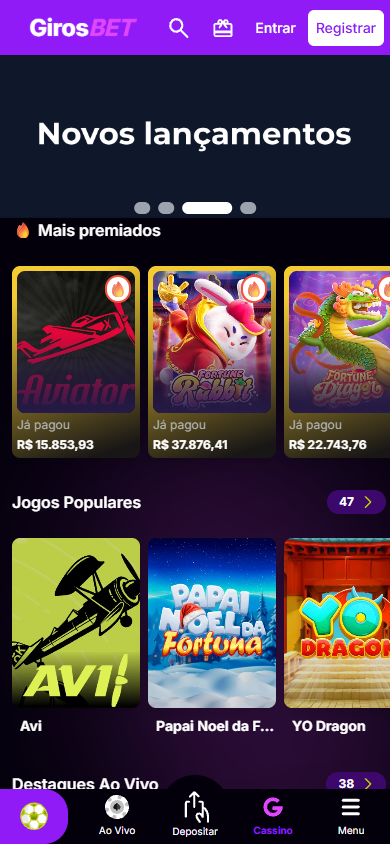
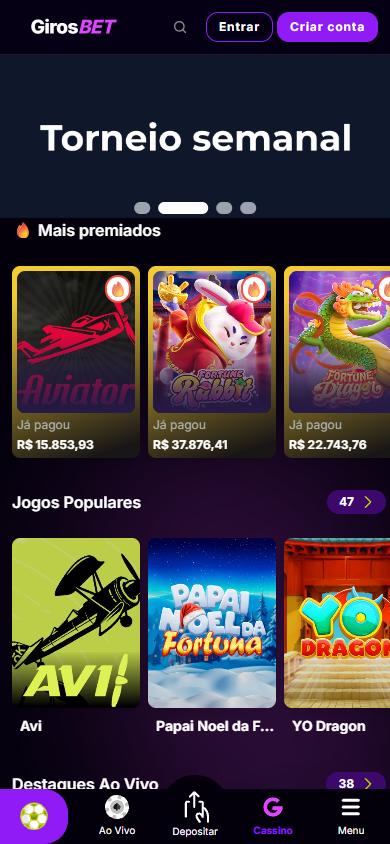
docs(girosbet): record WL-8 (dark header + desktop sidebar) and re-shoot the label
- docs/white-label/01-design.md: WL-8a/8b/8c rows with their BetAki proofs, plus
  "O que WL-8 mudou" (what moved to BrandConfig.layout / semantic tokens / CMS meta.group,
  and what was deliberately left for the next phase).
- docs/design/01-benchmark.md: status column on the L1..L11 backlog (L1, L2 done), the
  "roxo" surfaces decision and the design canvas link.
- docs/girosbet/screenshots: the nine GirosBet shots re-taken against the local CMS with
  the dark header and the sidebar (1440x900 and 390x844, age/cookie dialogs accepted).

Claude-Session: https://claude.ai/code/session_01M8w3jJmPeahYpwBpQFqMKa

diff --git a/docs/white-label/01-design.md b/docs/white-label/01-design.md
@@ -147,8 +147,11 @@ Uma instância Laravel por marca; `BRAND.api.backofficeApiUrl` por ambiente. Sem
 | WL-5 | `brands/_template` + `docs/white-label/02-como-criar-marca.md` (checklist de 1 página) | criar marca `demo` seguindo o doc leva minutos | ✅ feito |
 | WL-6 | `brands/girosbet` com paleta, fontes, logo placeholder, index, config com placeholders | `npm run build:girosbet` verde; screenshots das mesmas telas | ✅ feito |
 | WL-7 | Tirar de `src/` as cores e a fonte da BetAki que ainda estavam fixas: 6 tokens novos (`--color-brand-ink/900/950`, `--color-surface-auth/-skeleton`, `--color-brand-spinner`), `--font-sans` no lugar dos 23 `font-family: Roboto`, e o selo +18 virou `assets.ageBadge` da marca | PNGs da betaki (`/auth/login`, `/auth/register`, `/terms-and-conditions`) idênticos byte a byte antes/depois; `#869502`/`#bcd200`/`#202400`/`#0d0f03` zerados no CSS da girosbet | ✅ feito |
+| WL-8a | Fundação do layout por marca: `BrandConfig.layout { header: 'brand-bar' \| 'dark'; desktopSidebar }`, `ShellService.desktopSidebarCollapsed`, tokens semânticos (`--color-action*`, `--color-surface-header`, `--color-button-secondary*`, `--color-button-outline-text`, `--color-danger`, `--radius-button`) nas três marcas, `<app-button>` pintado com eles | diff do CSS da betaki: 8 custom properties novas, 5 utilitários renomeados com valor idêntico, 0 declarações alteradas | ✅ feito |
+| WL-8b | Header escuro (L1) para `layout.header = 'dark'`: `shell/header-v2/header-dark` com toggle Cassino/Ao vivo, busca inline, botão da sidebar, Entrar (`secondary`) e Criar conta (`primary`); a barra da betaki continua inline e intacta | faixa de 64 px do `/games` da betaki byte a byte igual ao `betaki-home.png` (0 de 92 160 pixels); CSS: 42 utilitários novos, 0 alterados | ✅ feito |
+| WL-8c | Sidebar desktop (L2) para `layout.desktopSidebar`: banner `banner-sidebar-top`, tiles Cupom/Promo, grupos de menu por `meta.group` (`atalhos`/`populares`/`ajuda`), trilho colapsado persistido; seeder do backoffice (`demo-seed`) com os grupos, 5 populares e o banner | CSS da betaki: 20 utilitários novos, 8 removidos (só do markup morto da sidebar antiga), 0 alterados; `desktopSidebar:!1` no bundle da betaki | ✅ feito |
 
-Ordem: WL-0 → WL-1 → WL-2 → WL-3 → WL-4 → WL-5 → WL-6 → WL-7. Cada tarefa é um ou poucos commits na branch `white-label`.
+Ordem: WL-0 → WL-1 → WL-2 → WL-3 → WL-4 → WL-5 → WL-6 → WL-7 → WL-8a → WL-8b/WL-8c. Cada tarefa é um ou poucos commits na branch `white-label`.
 
 ### O que WL-4 mudou além do previsto
 
@@ -192,6 +195,25 @@ Fora de `src/`, o pacote de terceiros `@icore/ngx-atl-pp-templates-shared` (usad
 `src/theme/theme.scss`) traz os templates de CMS `.bki` com `#bcd200`, `#202400` e `#090b01`
 fixos — são as 8 últimas ocorrências de cor da BetAki no CSS de qualquer marca. Só some
 publicando uma versão nova da lib.
+
+### O que WL-8 mudou
+
+- O layout passou a ser decisão da marca (`BrandConfig.layout`), não do código: a betaki mantém a barra
+  colorida e nenhuma sidebar; a girosbet liga o header escuro e a sidebar de blocos. O critério de aceite
+  continua o mesmo: CSS e DOM da betaki idênticos (provado por diff normalizado do `styles-*.css` e por
+  comparação de pixels do header).
+- Os componentes deixaram de citar cores de marca: `<app-button>`, o header e a sidebar usam só os tokens
+  semânticos (`action`, `surface-header`, `button-secondary`, `button-outline-text`, `danger`, `radius-button`).
+  Para a betaki cada token resolve exatamente no valor antigo.
+- O CMS ganhou responsabilidade de layout: `Menu.meta.group` decide em que bloco da sidebar o item entra, e
+  `meta.routerLink = 'support'` abre o chat em vez de navegar (tratado em `RoutingService.navigateToMenuItem`,
+  então vale para a sidebar mobile também).
+- Ficou de fora, para a fase seguinte: a anatomia de altura fixa dos botões da v1 (hoje o tamanho ainda é por
+  padding), o `hover` do `primary` (continua `opacity .9`; `--color-action-hover` existe mas nenhum utilitário
+  o usa), o posicionamento do `profile-modal` sob o header escuro (estado logado não foi verificado) e a rota
+  `/sportsbook` do segmento "Esportes" (só renderiza quando a marca declara `integrations.sportsbook`).
+- Pendências do ambiente, não do código: `assets/icons/play-icon.svg` ("Crash Games") é preto e some no fundo
+  escuro; o CORS do backoffice local só aceita as origens 4200/8080.
 
 ## 4. Critérios de aceite globais
 

diff --git a/docs/design/01-benchmark.md b/docs/design/01-benchmark.md
@@ -41,21 +41,23 @@
 
 ## 4. Backlog de layout (ordem sugerida, depois da trilha A)
 
-| # | Item | Componentes | Depende do CMS? |
-|---|---|---|---|
-| L1 | Header escuro com toggle Cassino/Esportes, busca inline, CTA magenta; roxo só como acento | `shell/header-v2`, tokens `--color-surface-header` | não |
-| L2 | Sidebar desktop com banner, tiles de promo, atalhos, populares, ajuda; trilho colapsado | `games-page/components/sidebar-desktop`, `sidenav-menu` | sim: menus `atalhos`, `populares`, `ajuda`; banner `sidebar-top` |
-| L3 | Topbar de cupom fechável | novo `promo-topbar` | sim: banner `topbar` |
-| L4 | Ticker no topo, rolagem contínua | `winners-list` | não |
-| L5 | Hero menor, 1 slide, CTA e selos no template | `carousel`, template de slide | sim: campos `title`, `subtitle`, `cta` no slide |
-| L6 | Chips com ícone em todas as páginas de lobby; cabeçalho de seção com ícone, setas e "Ver todos" | `game-filter-list`, `game-list` | sim: `meta.icon` nas categorias |
-| L7 | Card com provedor e "Jogar agora" no hover; provedores como card escuro com logo, contagem e botão | `game-card`, `providers-carousel`, `providers-list` | não |
-| L8 | Páginas internas sem hero; título à esquerda | `games-list-page`, `*-category-page` | não |
-| L9 | Mobile: header enxuto, CTA de conta na barra inferior, 5 itens, ícone da marca, grade 4 por linha | `shell/mobile-menu`, `sidebar-mobile`, `game-list` | não |
-| L10 | Diálogo único de entrada (idade + cookies) no layout da v1 | `age-confirmation-dialog`, `cookie-consent-dialog` | não |
-| L11 | Rodapé regulatório completo via `BRAND.legal` e footer do CMS | `shell/footer-v2`, `BrandConfig.legal` | sim: footer com grupos |
+| # | Item | Componentes | Depende do CMS? | Status |
+|---|---|---|---|---|
+| L1 | Header escuro com toggle Cassino/Esportes, busca inline, CTA magenta; roxo só como acento | `shell/header-v2`, tokens `--color-surface-header` | não | ✅ feito (WL-8b, `header-dark`; roxo `#901bf7` só como acento, magenta `#e145ff` como ação) |
+| L2 | Sidebar desktop com banner, tiles de promo, atalhos, populares, ajuda; trilho colapsado | `games-page/components/sidebar-desktop`, `sidenav-menu` | sim: menus `atalhos`, `populares`, `ajuda`; banner `sidebar-top` | ✅ feito (WL-8c; grupos por `meta.group`, banner `banner-sidebar-top`) |
+| L3 | Topbar de cupom fechável | novo `promo-topbar` | sim: banner `topbar` | pendente |
+| L4 | Ticker no topo, rolagem contínua | `winners-list` | não | pendente |
+| L5 | Hero menor, 1 slide, CTA e selos no template | `carousel`, template de slide | sim: campos `title`, `subtitle`, `cta` no slide | pendente |
+| L6 | Chips com ícone em todas as páginas de lobby; cabeçalho de seção com ícone, setas e "Ver todos" | `game-filter-list`, `game-list` | sim: `meta.icon` nas categorias | pendente |
+| L7 | Card com provedor e "Jogar agora" no hover; provedores como card escuro com logo, contagem e botão | `game-card`, `providers-carousel`, `providers-list` | não | pendente |
+| L8 | Páginas internas sem hero; título à esquerda | `games-list-page`, `*-category-page` | não | pendente |
+| L9 | Mobile: header enxuto, CTA de conta na barra inferior, 5 itens, ícone da marca, grade 4 por linha | `shell/mobile-menu`, `sidebar-mobile`, `game-list` | não | pendente |
+| L10 | Diálogo único de entrada (idade + cookies) no layout da v1 | `age-confirmation-dialog`, `cookie-consent-dialog` | não | pendente |
+| L11 | Rodapé regulatório completo via `BRAND.legal` e footer do CMS | `shell/footer-v2`, `BrandConfig.legal` | sim: footer com grupos | pendente |
 
 Critério de pronto de cada item: screenshot da label GirosBet ao lado do screenshot correspondente da v1 nas duas larguras, e o build do BetAki inalterado (o BetAki continua com o layout atual através dos seus próprios tokens e menus).
+
+Decisão de 2026-09-03 (Vinícius): as superfícies ficam com os tokens roxo-preto do nosso tema (`roxo`), não com os neutros que a girosbet.io passou a pintar depois do levantamento; o canvas de design com as duas opções está em https://claude.ai/code/artifact/bb0dd5cd-e94b-405d-b2cc-df998a5c5fc6.
 
 ## 5. Fontes
 
